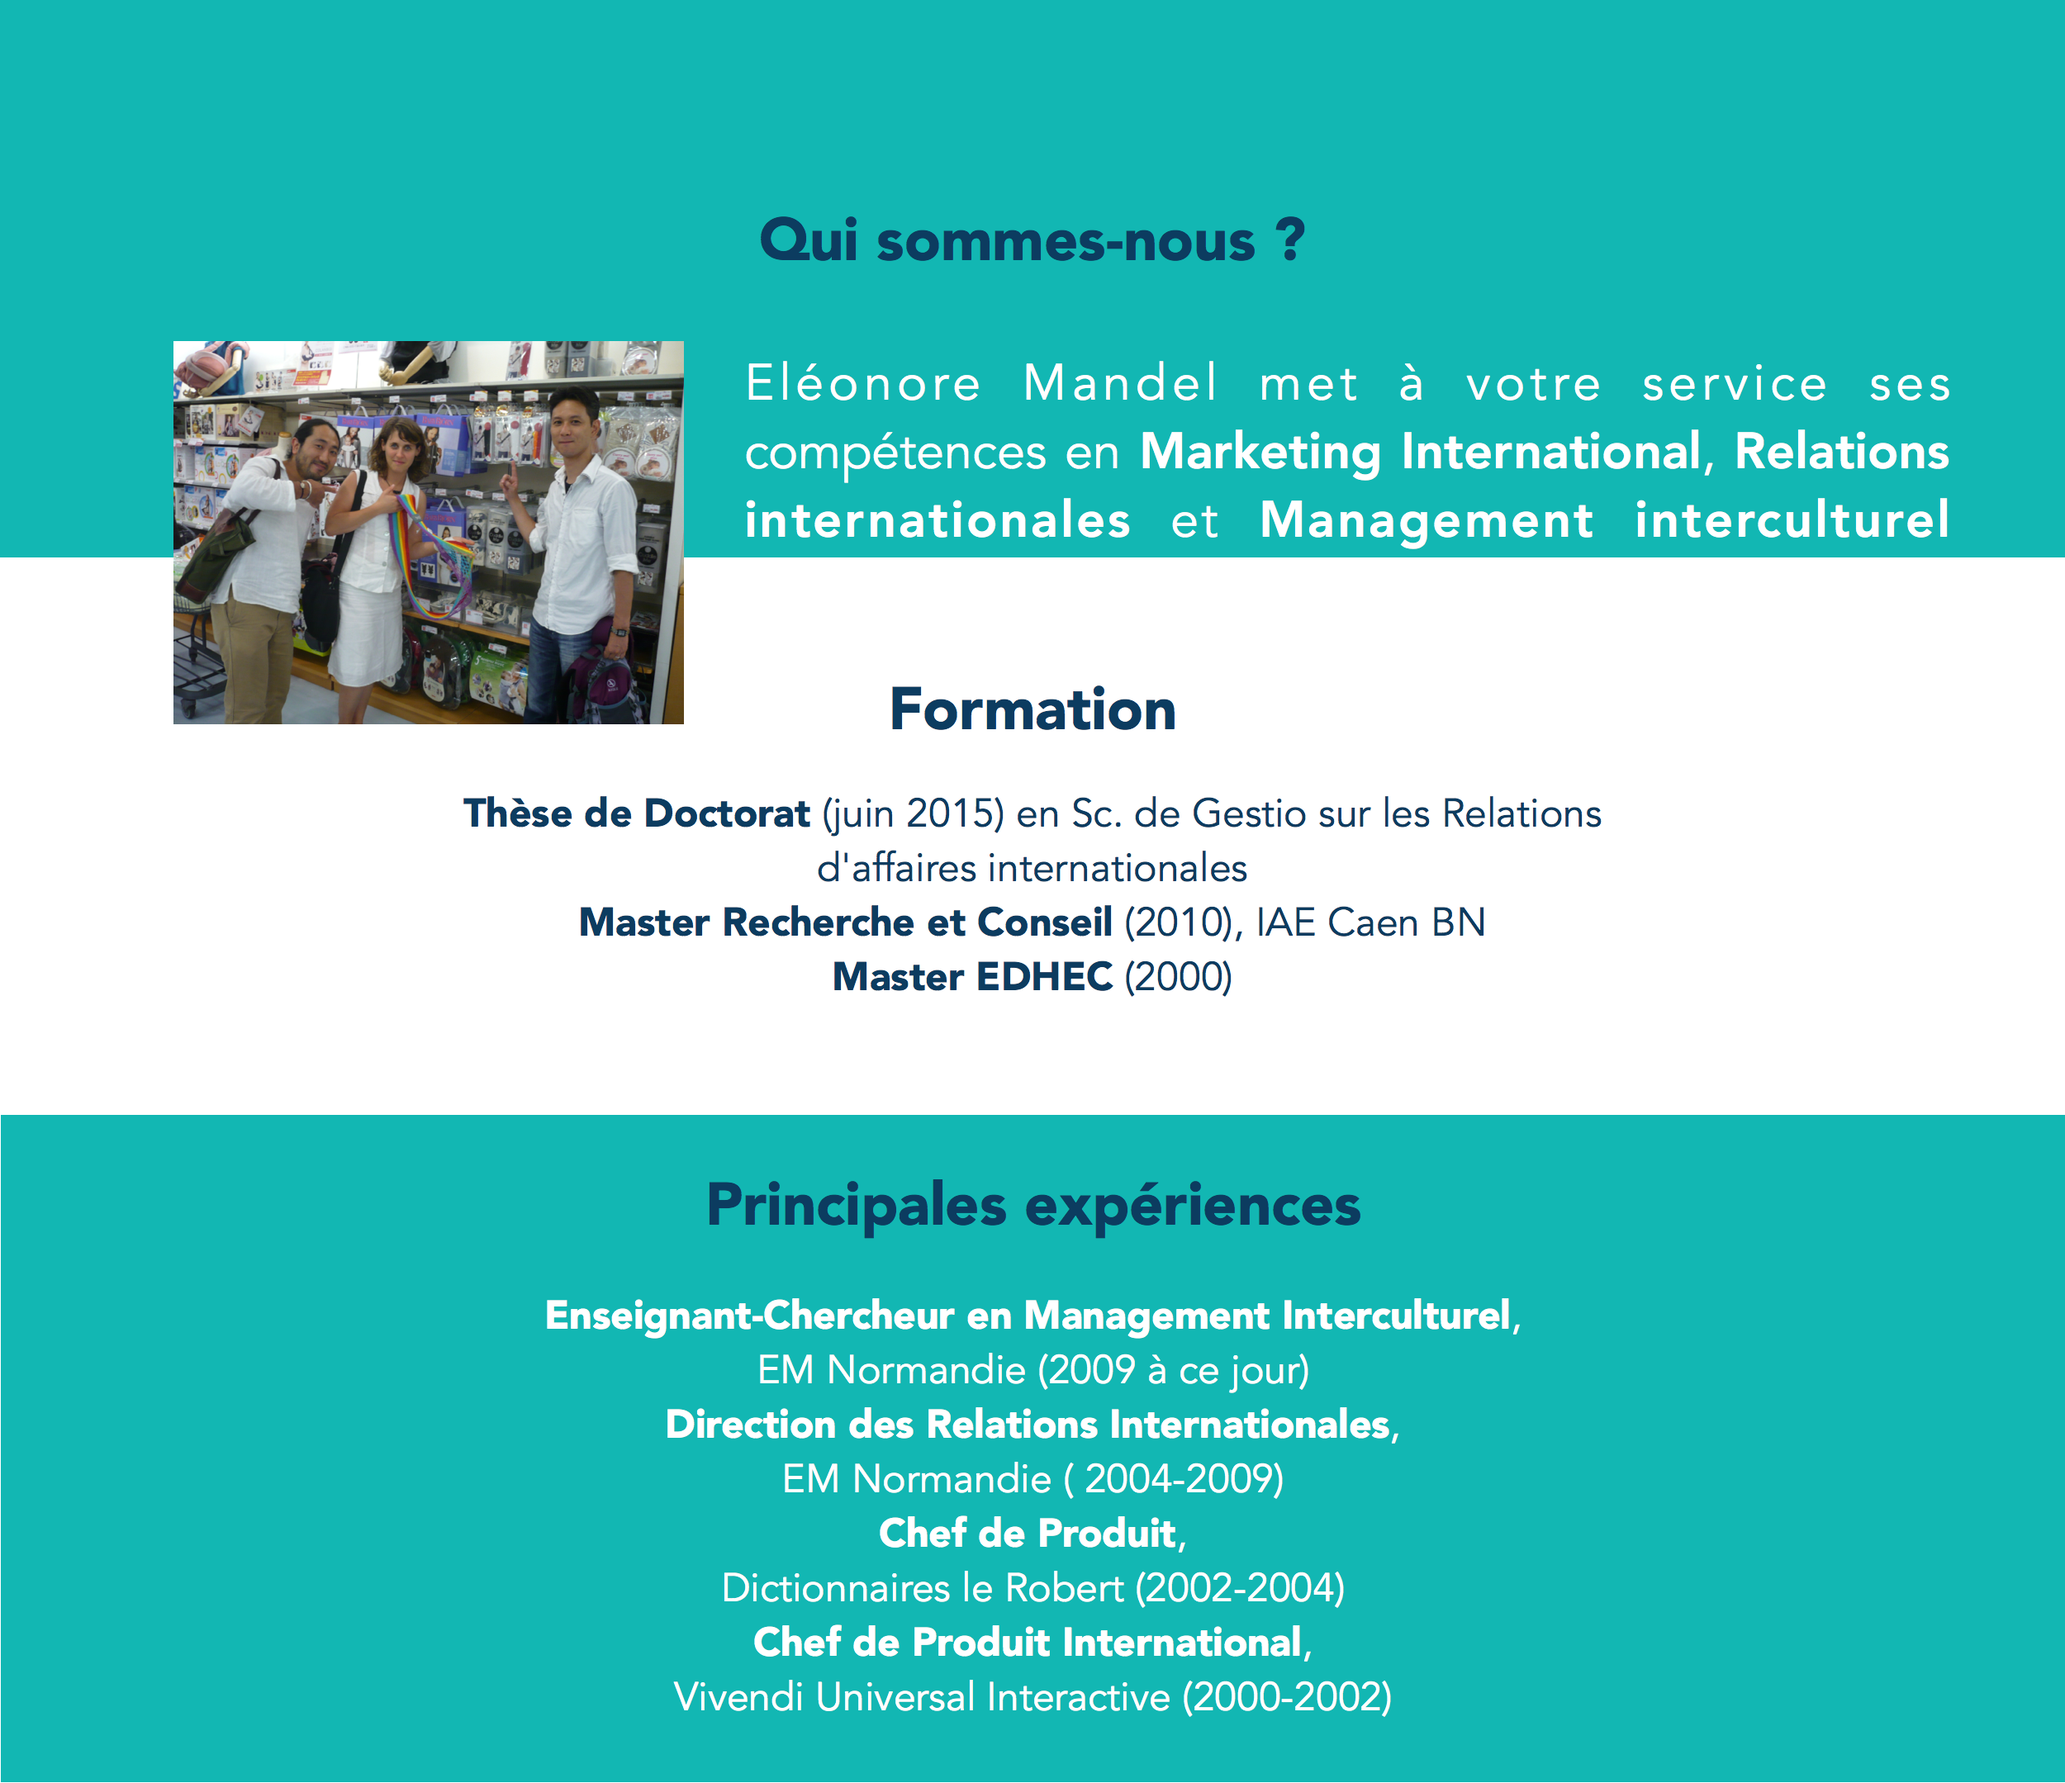
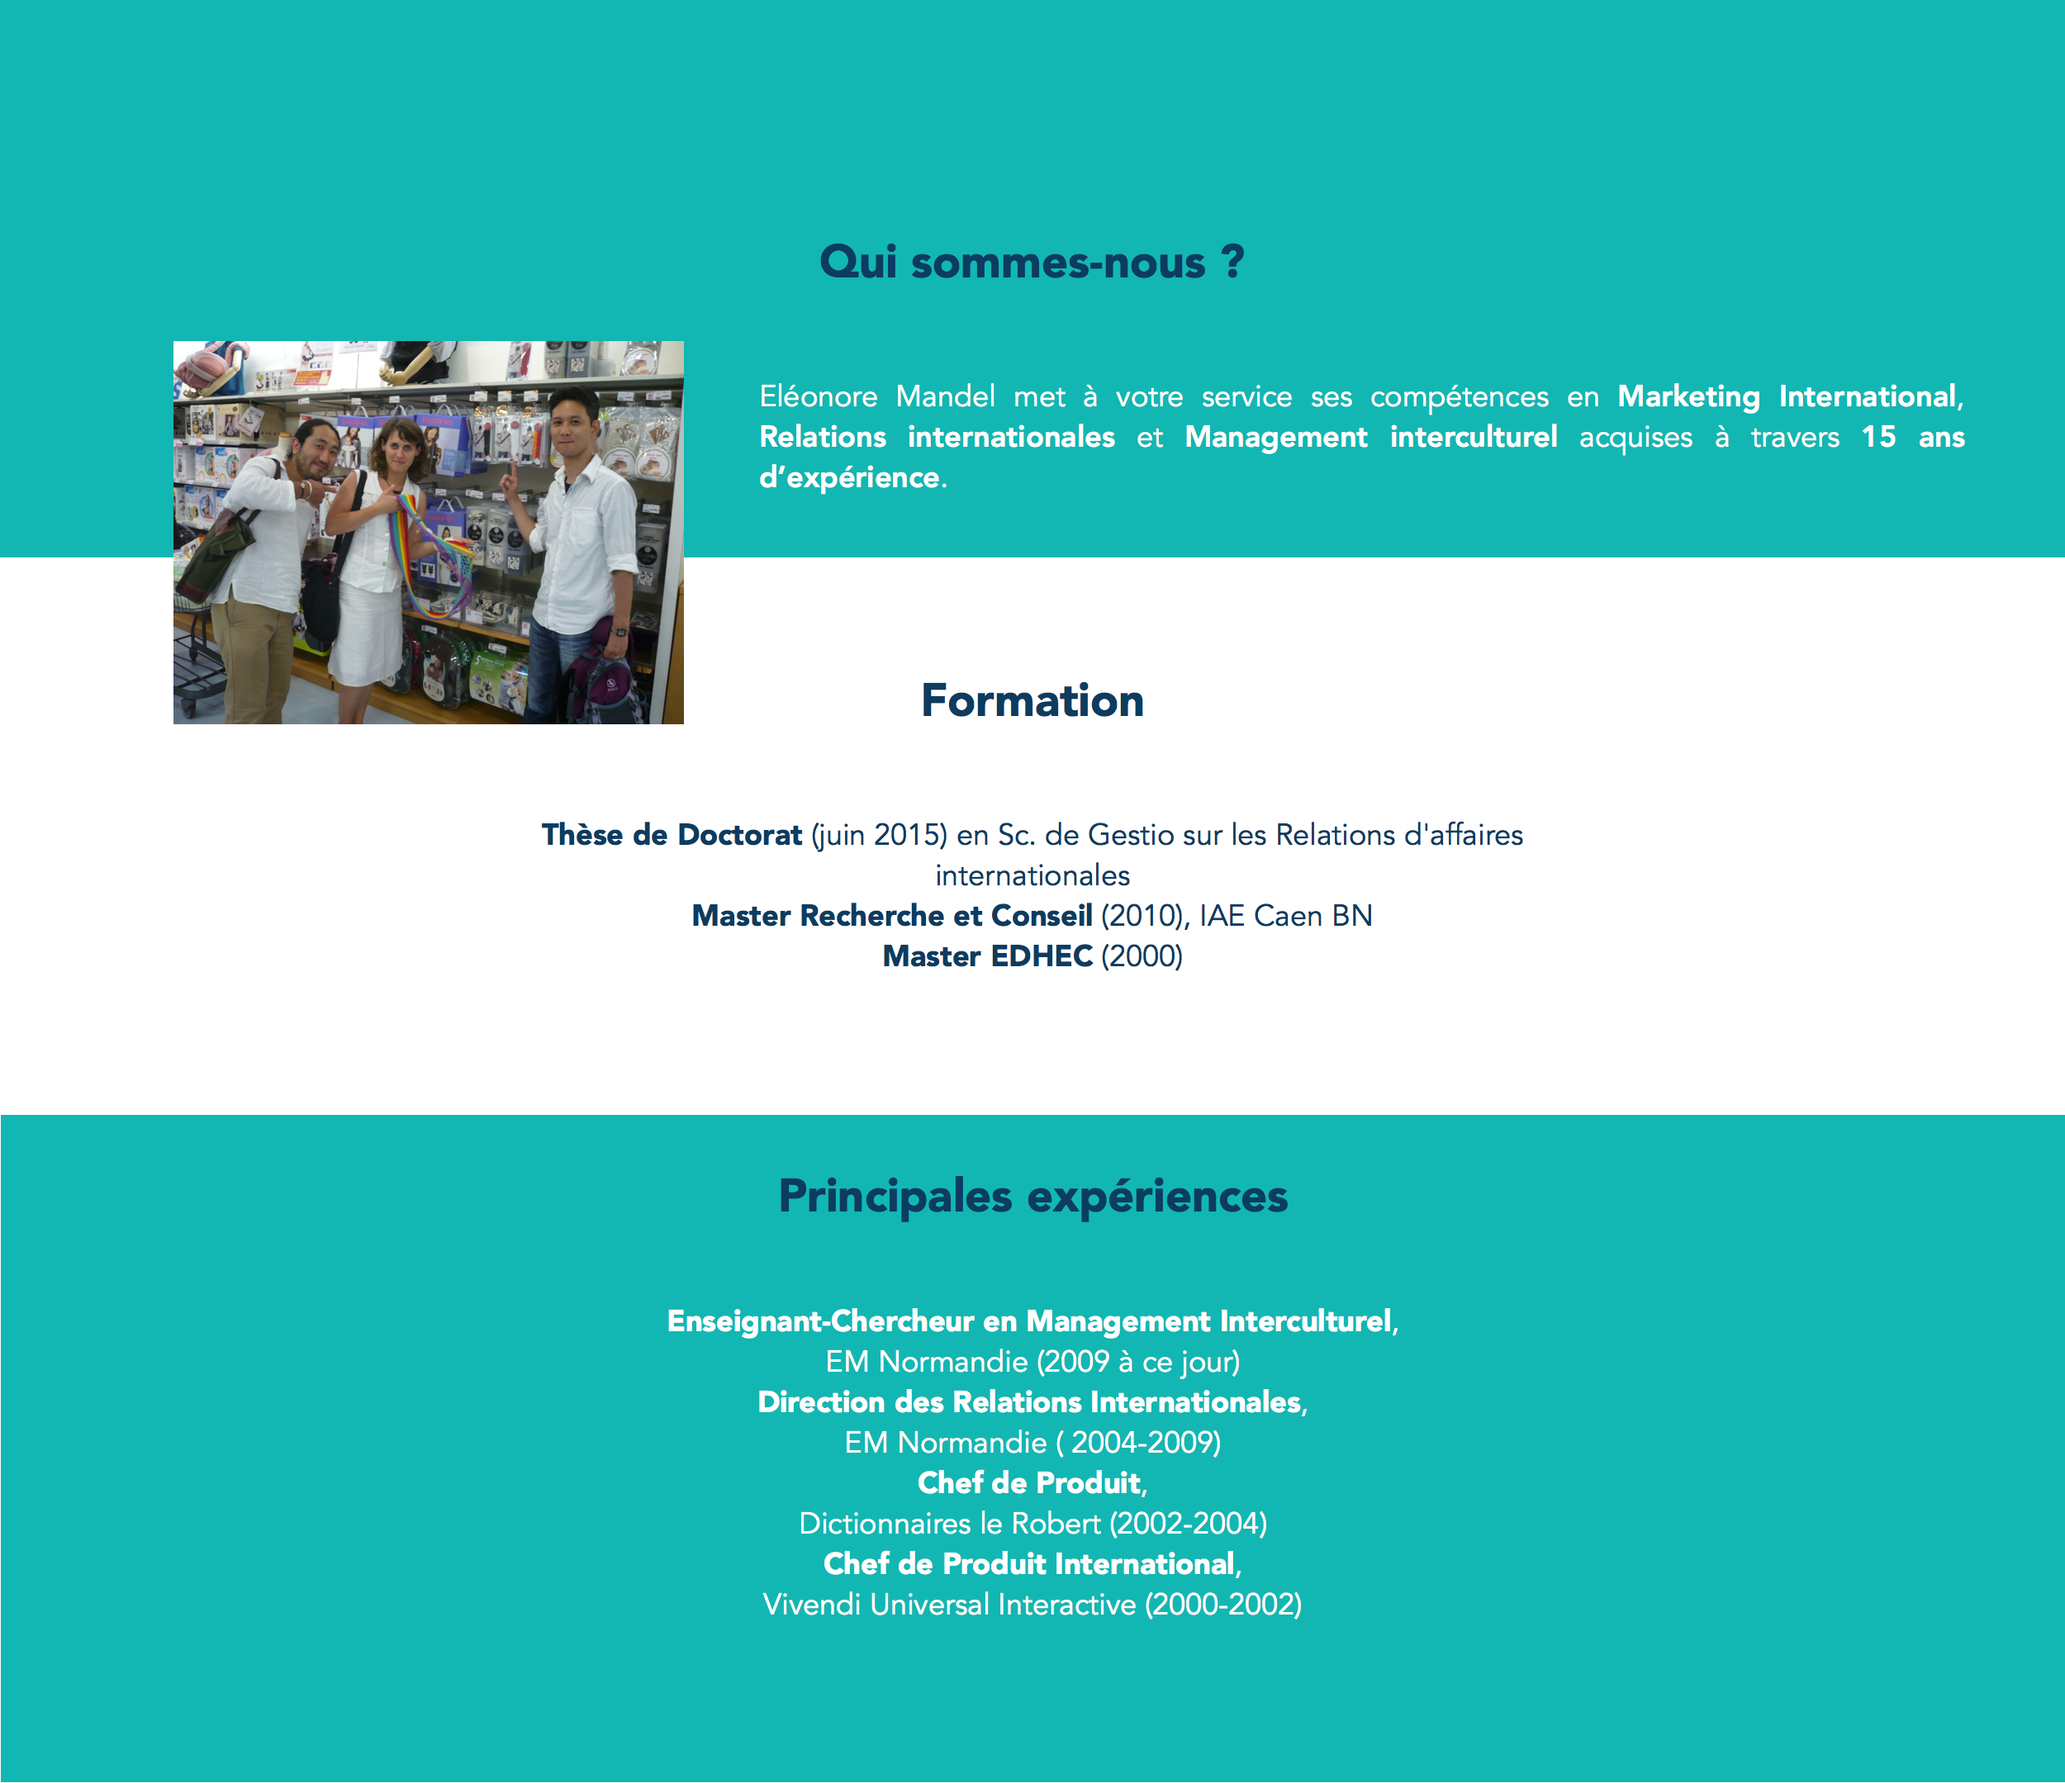
Version 3

diff --git a/app/assets/stylesheets/CSS.css.scss b/app/assets/stylesheets/CSS.css.scss
@@ -38,11 +38,11 @@
   padding: 25px;
   padding-right: 50px;
 
-
 }
 
 .navbar-default .navbar-nav > li > a {
   color: #0C3C60;
+  line-height: 45px;
 }
 
 .container { 
@@ -81,7 +81,7 @@
   padding-left: 50px;
   text-align: center;
   font-family: "Open Sans";
-  font-size: 2.5vh;
+  font-size: 2.2vh;
   color: #0C3C60;
   line-height: 4.0vh;
 

diff --git a/config/routes.rb b/config/routes.rb
@@ -1,6 +1,8 @@
 Rails.application.routes.draw do
   root 'pages#home'
 
+  get "anglais" => "pages#anglais"
+
   # The priority is based upon order of creation: first created -> highest priority.
   # See how all your routes lay out with "rake routes".
 

diff --git a/app/controllers/pages_controller.rb b/app/controllers/pages_controller.rb
@@ -1,4 +1,6 @@
 class PagesController < ApplicationController
   def home
   end
+  def anglais
+  end
 end
